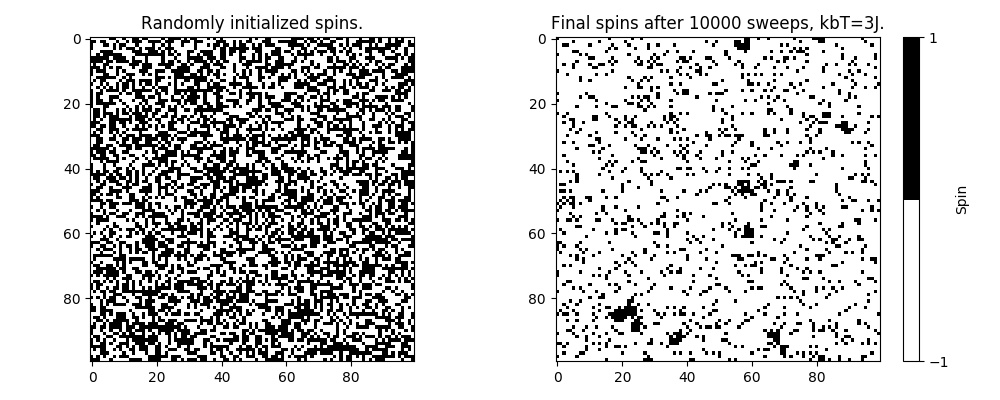
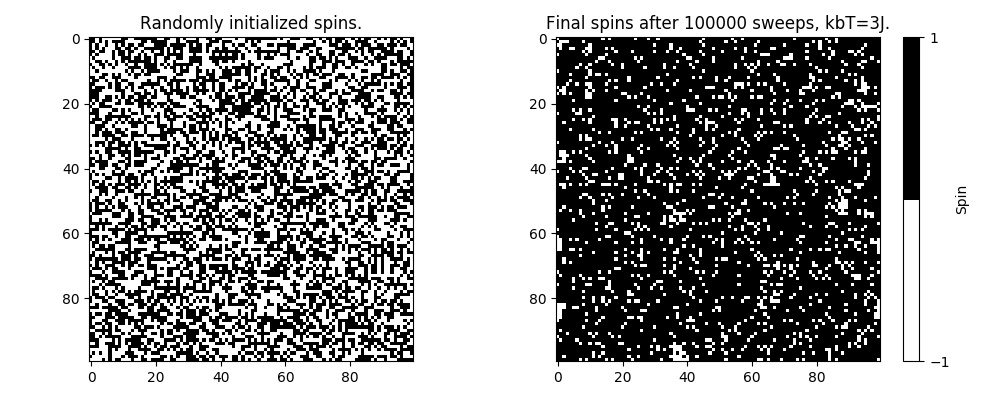
100000 sweeps python

diff --git a/03/src/02.cpp b/03/src/02.cpp
@@ -74,10 +74,10 @@ int** sweep(int** old_lattice, int** new_lattice, double beta, int* Energie, int
 
 int main(int argc, char *argv[])
 {
-		int m = 100;
-		int n = 100;
+		int m = 300;
+		int n = 300;
 		double beta = 1./1.0;
-		int N = 200;
+		int N = 20000;
 
 		int *Energie = new int[N];
 
@@ -115,7 +115,7 @@ int main(int argc, char *argv[])
 				int *p = &Energie[x];
 				old_lattice = sweep(old_lattice, new_lattice, beta, p, m, n);
 				old_lattice = periodic_lattice(old_lattice, m, n);
-				MyFile << Energie[x]/(static_cast<double>(n*m)) << ",";
+				MyFile << Energie[x]/(static_cast<double>(n*m))/4 << ",";
 		}
 
 
